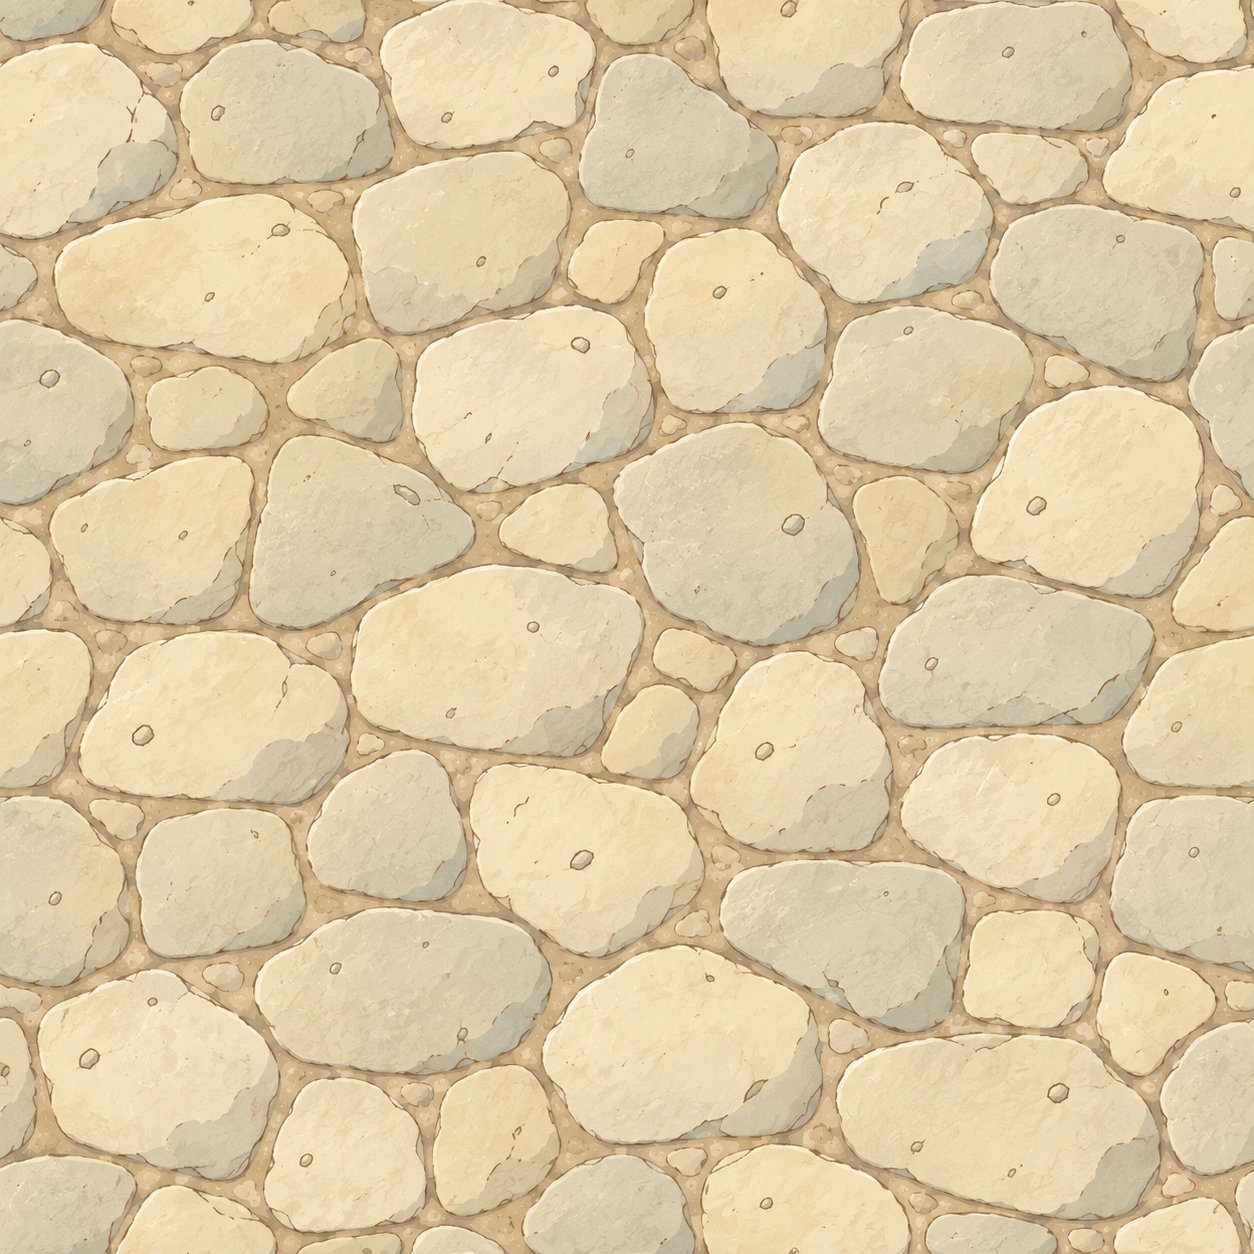
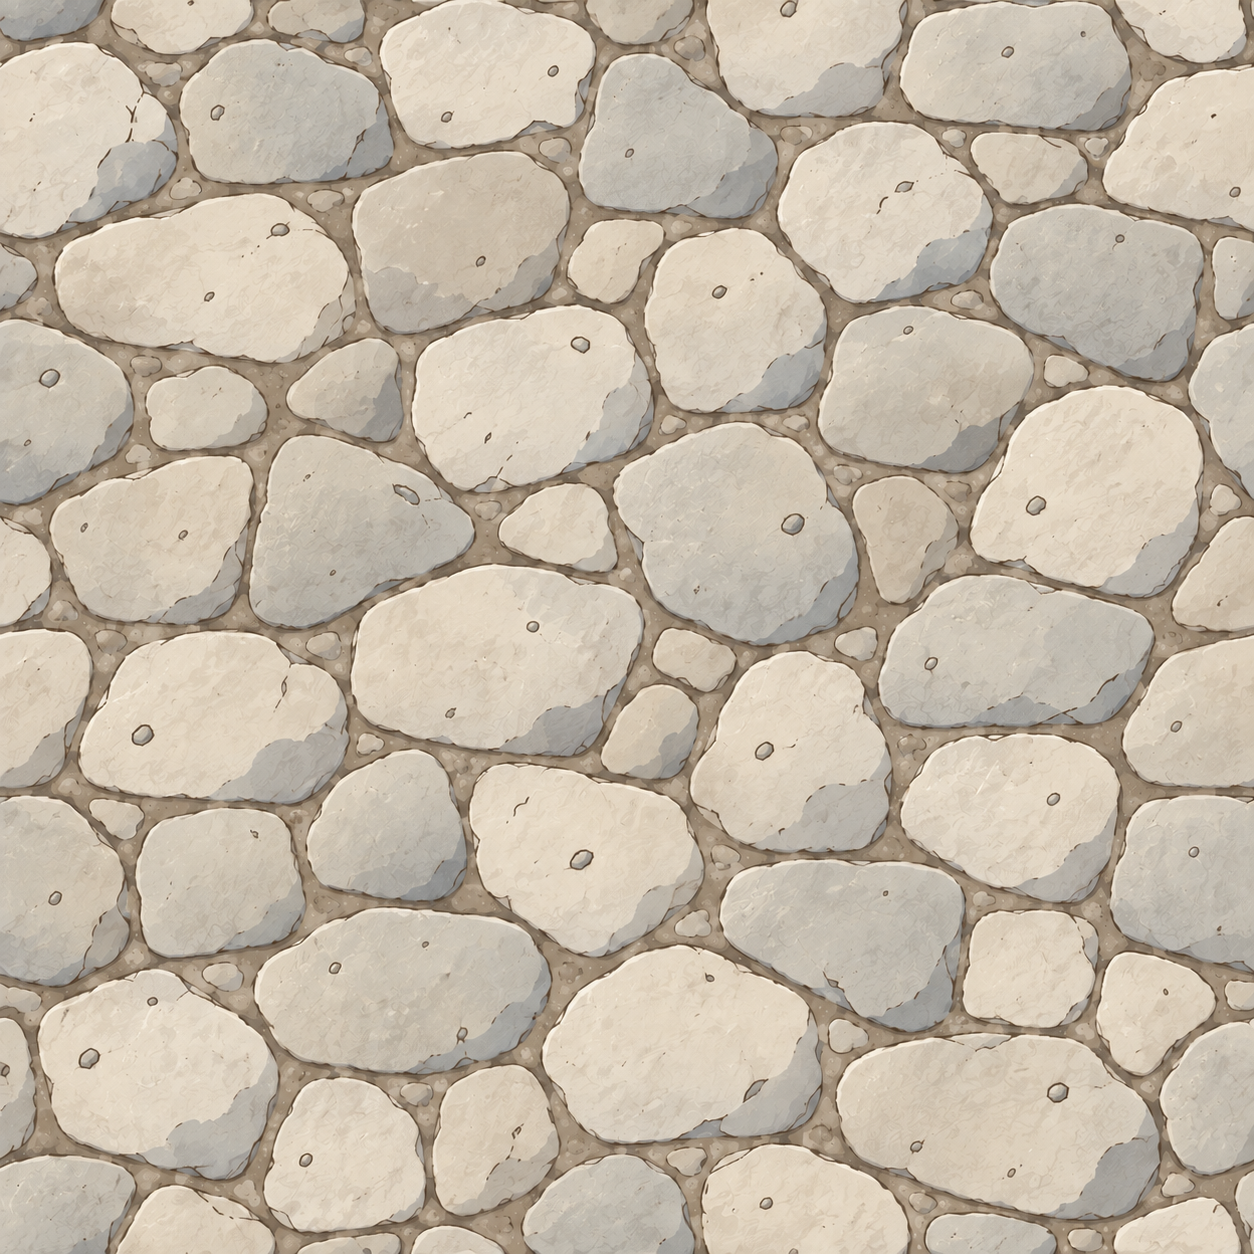
Strengthen stone road definition with neutral limestone tones

diff --git a/docs/verification/roads/style/comparison.html b/docs/verification/roads/style/comparison.html
@@ -1,1 +1,1 @@
-<!doctype html><meta charset="utf-8"><title>Road material style review</title><style>body{margin:24px;background:#f1ecdf;color:#433e32;font:18px sans-serif}h1{font-size:26px}h2{font-size:20px}section{display:flex;gap:24px;margin-bottom:24px}figure{margin:0}img{width:280px;height:280px;object-fit:cover}figcaption{padding:8px 0}.tile{display:grid;grid-template-columns:250px 250px}.tile img{width:250px;height:250px}.tile img:nth-child(2){transform:scaleX(-1)}.tile img:nth-child(3){transform:scaleY(-1)}.tile img:nth-child(4){transform:scale(-1)}</style><h1>Road materials · approved references and refinements</h1><section><figure><img src="../../../../assets/reference/diorama_primary.webp"><figcaption>World style</figcaption></figure><figure><img src="../../../../assets/terrain/meadow.webp"><figcaption>Painted meadow</figcaption></figure><figure><img src="../../../../assets/terrain/clayland.webp"><figcaption>Original clay reuse</figcaption></figure><figure><img src="../../../../assets/terrain/cobblestone.png"><figcaption>Approved plot paving</figcaption></figure></section><section><figure><h2>Refined dirt · mirrored 2×2 repeat</h2><div class="tile"><img src="../../../../assets/terrain/road_dirt.png"><img src="../../../../assets/terrain/road_dirt.png"><img src="../../../../assets/terrain/road_dirt.png"><img src="../../../../assets/terrain/road_dirt.png"></div></figure><figure><h2>Refined stone · mirrored 2×2 repeat</h2><div class="tile"><img src="../../../../assets/terrain/road_stone.png"><img src="../../../../assets/terrain/road_stone.png"><img src="../../../../assets/terrain/road_stone.png"><img src="../../../../assets/terrain/road_stone.png"></div></figure></section>
+<!doctype html><meta charset="utf-8"><title>Road material style review</title><style>body{margin:24px;background:#f1ecdf;color:#433e32;font:18px sans-serif}h1{font-size:26px}h2{font-size:20px}section{display:flex;gap:24px;margin-bottom:24px}figure{margin:0}img{width:280px;height:280px;object-fit:cover}figcaption{padding:8px 0}.tile{display:grid;grid-template-columns:250px 250px}.tile img{width:250px;height:250px}.tile img:nth-child(2){transform:scaleX(-1)}.tile img:nth-child(3){transform:scaleY(-1)}.tile img:nth-child(4){transform:scale(-1)}</style><h1>Road materials · approved references and refinements</h1><section><figure><img src="../../../../assets/reference/diorama_primary.webp"><figcaption>World style</figcaption></figure><figure><img src="../../../../assets/terrain/meadow.webp"><figcaption>Painted meadow</figcaption></figure><figure><img src="../../../../assets/terrain/clayland.webp"><figcaption>Original clay reuse</figcaption></figure><figure><img src="../../../../assets/terrain/cobblestone.png"><figcaption>Approved plot paving</figcaption></figure></section><section><figure><h2>Refined dirt · mirrored 2×2 repeat</h2><div class="tile"><img src="../../../../assets/terrain/road_dirt.png"><img src="../../../../assets/terrain/road_dirt.png"><img src="../../../../assets/terrain/road_dirt.png"><img src="../../../../assets/terrain/road_dirt.png"></div></figure><figure><h2>Refined stone · mirrored 2×2 repeat</h2><div class="tile"><img src="../../../../assets/terrain/road_sources/stone-sandy-before.png"><img src="../../../../assets/terrain/road_sources/stone-sandy-before.png"><img src="../../../../assets/terrain/road_sources/stone-sandy-before.png"><img src="../../../../assets/terrain/road_sources/stone-sandy-before.png"></div></figure></section>

diff --git a/docs/verification/roads/stone-contrast/comparison.html b/docs/verification/roads/stone-contrast/comparison.html
@@ -1,0 +1,1 @@
+<!doctype html><meta charset="utf-8"><title>Stone road material correction</title><style>body{margin:24px;background:#f1ecdf;color:#433e32;font:18px sans-serif}h1{font-size:26px}section{display:flex;gap:20px}figure{margin:0}img{width:285px;height:285px;object-fit:cover}figcaption{padding:8px 0}.tile{display:grid;grid-template-columns:220px 220px}.tile img{width:220px;height:220px}.tile img:nth-child(2){transform:scaleX(-1)}.tile img:nth-child(3){transform:scaleY(-1)}.tile img:nth-child(4){transform:scale(-1)}</style><h1>Stone road · less sand, clearer limestone</h1><section><figure><img src="../../../../assets/terrain/road_sources/stone-sandy-before.png"><figcaption>Before · sandy cream</figcaption></figure><figure><img src="../../../../assets/terrain/road_stone.png"><figcaption>Revised · neutral limestone</figcaption></figure><figure><img src="../../../../assets/terrain/cobblestone.png"><figcaption>Approved plot linework</figcaption></figure><figure><img src="../../../../assets/reference/diorama_primary.webp"><figcaption>Approved world palette</figcaption></figure></section><h2>Revised material · mirrored 2×2 repeat</h2><div class="tile"><img src="../../../../assets/terrain/road_stone.png"><img src="../../../../assets/terrain/road_stone.png"><img src="../../../../assets/terrain/road_stone.png"><img src="../../../../assets/terrain/road_stone.png"></div>

diff --git a/docs/verification/roads/stone-contrast/README.md b/docs/verification/roads/stone-contrast/README.md
@@ -1,0 +1,76 @@
+# Stronger limestone road material — 2026-10-06
+
+Jakob found the merged stone road too sandy and asked for slightly stronger
+material definition. After seeing the revised texture and before/after comparison,
+he confirmed: “yeah I prefer that.” The revision reduces yellow/ochre, keeps ivory
+highlights and strengthens neutral-grey face shading and fine grey-brown joints.
+The irregular arrangement and scale stay consistent. Dirt and building plots are
+unchanged, as are construction, costs, pathfinding and movement bonuses.
+
+## References and provenance
+
+OpenAI image_gen edited the existing road material with the approved plot paving
+and primary world diorama attached as style references. The original sandy pass
+is retained at `assets/terrain/road_sources/stone-sandy-before.png`.
+[Exact prompt, source hashes and output provenance](../../../../assets/terrain/road_sources/stone-contrast.provenance.json)
+identify the single unmodified 1254×1254 PNG refinement. Runtime sampling remains
+512px with mipmaps and the existing mirrored edge clamping.
+
+![Before, preferred refinement and approved references](comparison.png)
+
+[Comparison source](comparison.html) includes a mirrored repeat preview. Mirrored
+stone shapes remain an accepted small-scale repetition; no new seam strategy or
+shader changes were introduced.
+
+## Style review
+
+| Criterion | Result and observation |
+| --- | --- |
+| Ink | Pass: thin grey-brown joints have slightly clearer separation without heavy black outlines. |
+| Color | Pass: pale neutral limestone and ivory replace yellow sand; shading avoids blue slate. User prefers this version. |
+| Light/material | Pass: soft cel shadow planes and painted face texture remain matte; no glossy bevel or photographic relief. |
+| Shape/detail | Pass: the same irregular cobble arrangement and sparse chips remain readable. |
+| Camera/scale | Pass: unchanged overhead scale; stones and fine joints remain legible at gameplay and maximum zoom on desktop and DPR2 phone. |
+| Integration | Pass: stone is clearly distinct from dirt, no visible gaps at cell/repeat boundaries, and plots/terrain remain untouched. Opaque terrain makes sprite alpha/fringe checks inapplicable. |
+
+## Reproduce
+
+```bash
+cargo build -p age-of-agents --locked
+cargo build -p aoa-game --example roads_fixture --locked
+python3 docs/verification/check_roads.py --output /tmp/stone-contrast
+```
+
+Build the server and fixture for the checked-out revision before starting the
+isolated browser check; the current base uses save version 16 and riverbank water.
+This asset-only change does not modify the save schema or need a new WASM build.
+The checked-in master bundle is used with the replacement PNG fetched at startup.
+The first local attempt was stopped when the older server/fixture binaries were
+noticed; only the rerun with current binaries is retained as verification.
+
+## Automated verification
+
+294 workspace tests pass (one existing manual benchmark ignored). Formatting,
+strict native/WASM lint and sprite-resolution, field/transport and icon audits
+pass. The replacement is a valid opaque 1254×1254 RGB PNG.
+
+Desktop mouse and DPR2 phone touch construction both pass: 14 completed cells,
+seven stone charged and zero browser errors. Normal/max-zoom screenshots were
+reviewed on both viewports. [Build and material hashes](results.json) identify
+the exact checked assets.
+
+## Review scope
+
+One runtime texture is replaced, with its old version and generation provenance
+retained. No code, dependency, game rule, save version or balance change.
+Documentation links and historical comparison sources now point to the retained
+old material, so prior evidence remains reproducible. Physical phones and native
+window rendering remain unverified; phone captures emulate DPR2.
+
+![Desktop gameplay](desktop-stone-complete.png)
+
+![Desktop maximum zoom](desktop-maximum-zoom.png)
+
+![Phone gameplay](phone-stone-complete.png)
+
+![Phone maximum zoom](phone-maximum-zoom.png)

diff --git a/docs/knowledge/asset-pipeline.md b/docs/knowledge/asset-pipeline.md
@@ -191,3 +191,12 @@ Follow-up direction: compare wildlife directly with existing NPCs, not only the 
 The corrected water art was explicitly accepted by the user on 2026-10-06
 ("Looks much better"). It uses pale clay, muted blue water and finer ink; the
 comparison and desktop/DPR-2 previews are in the water verification folder.
+
+## Stone road readability follow-up (2026-10-06)
+
+After merging roads, Jakob said the stone street had drifted too far toward sand
+and requested slightly stronger material definition. Refine only stone toward
+neutral limestone grey with modestly deeper fine joints and clearer soft face
+shading; retain the irregular layout and painted style. Dirt stays unchanged.
+Jakob preferred the revised neutral-limestone texture after seeing the comparison.
+Desktop and DPR2 phone normal/max-zoom review passes; see the [follow-up review](../verification/roads/stone-contrast/README.md).

diff --git a/OPEN_WORK.md b/OPEN_WORK.md
@@ -1,3 +1,7 @@
+# Stone road contrast refinement — 2026-10-06
+
+- User requested less sandy, slightly stronger stone paving after roads PR #133 merged. The revised neutral limestone and clearer joints preserve the painted style; user confirmed “yeah I prefer that” after viewing the comparison. Stone-only runtime asset change; 294 tests, formatting, strict native/WASM lint, asset checks and desktop/DPR2 phone construction plus normal/max-zoom review pass. [Before/after, provenance and evidence](docs/verification/roads/stone-contrast/README.md). Branch `fix/stone-road-contrast` is ready for review; not merged or deployed.
+
 # Stronger wildlife — 2026-10-06
 
 - Wolves now have 300 HP/35 contact damage; bears 600 HP/50 damage. Full-health contact tests: 1–2 archers lose, 3 win with one survivor, 4–5 win with one casualty. Existing saved current health persists; new spawns use the higher HP.

diff --git a/assets/terrain/README.md b/assets/terrain/README.md
@@ -71,3 +71,12 @@ with mipmaps, using the same mirrored/clamped sampling as plots. This guarantees
 continuous repeat edges even though the generated source is not assumed to wrap.
 No biome or building-plot pixels were changed. See the
 [style comparison and gameplay review](../../docs/verification/roads/style/README.md).
+
+### Stone readability correction
+
+The stone material was subsequently cooled toward neutral limestone and given
+slightly stronger joints and soft face shading after Jakob found it too sandy.
+The layout, scale and sampling are unchanged. The initial sandy output is retained
+in `road_sources/stone-sandy-before.png`; [follow-up provenance](road_sources/stone-contrast.provenance.json)
+records the exact prompt and reference hashes. See the
+[before/after and gameplay review](../../docs/verification/roads/stone-contrast/README.md).

diff --git a/docs/verification/roads/style/README.md b/docs/verification/roads/style/README.md
@@ -12,7 +12,8 @@ and generated originals are recorded in [provenance](../../../../assets/terrain/
 Both refinements were made with OpenAI image_gen, attaching the primary diorama,
 painted meadow and their respective original clay/paving image. The unmodified
 1254×1254 PNGs are retained as [dirt](../../../../assets/terrain/road_dirt.png) and
-[stone](../../../../assets/terrain/road_stone.png). There are no additional art passes.
+[stone](../../../../assets/terrain/road_sources/stone-sandy-before.png). This records the first material pass. A later user-requested
+[stone contrast correction](../stone-contrast/README.md) supersedes its sandy stone palette.
 
 ![Approved references above, refined materials repeated below](comparison.png)
 
